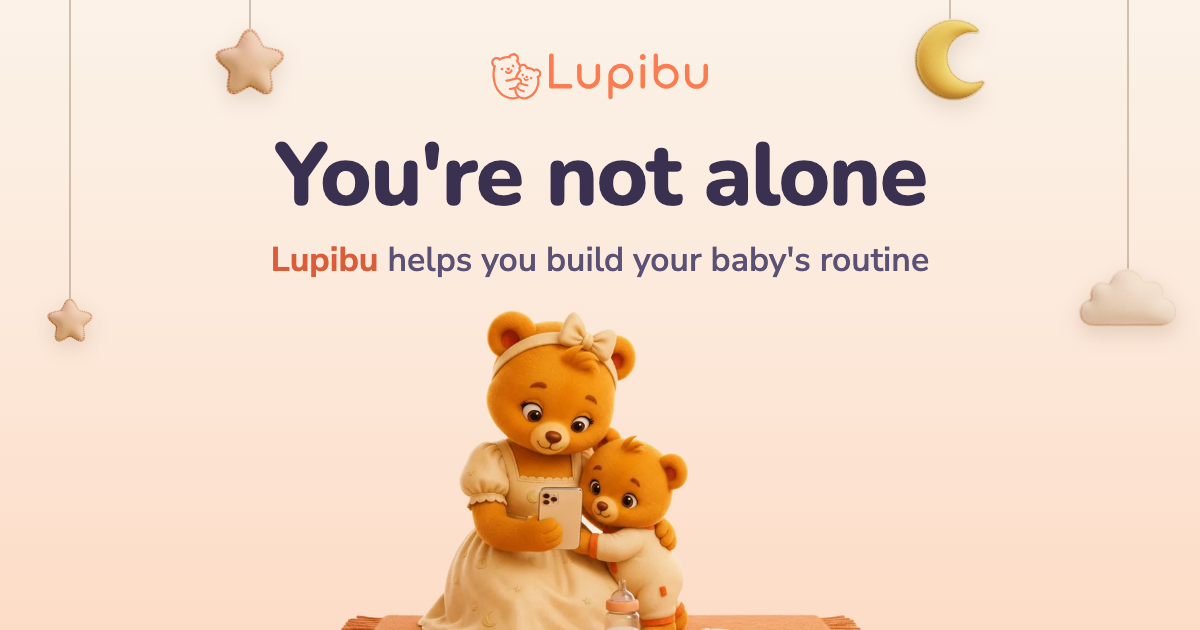
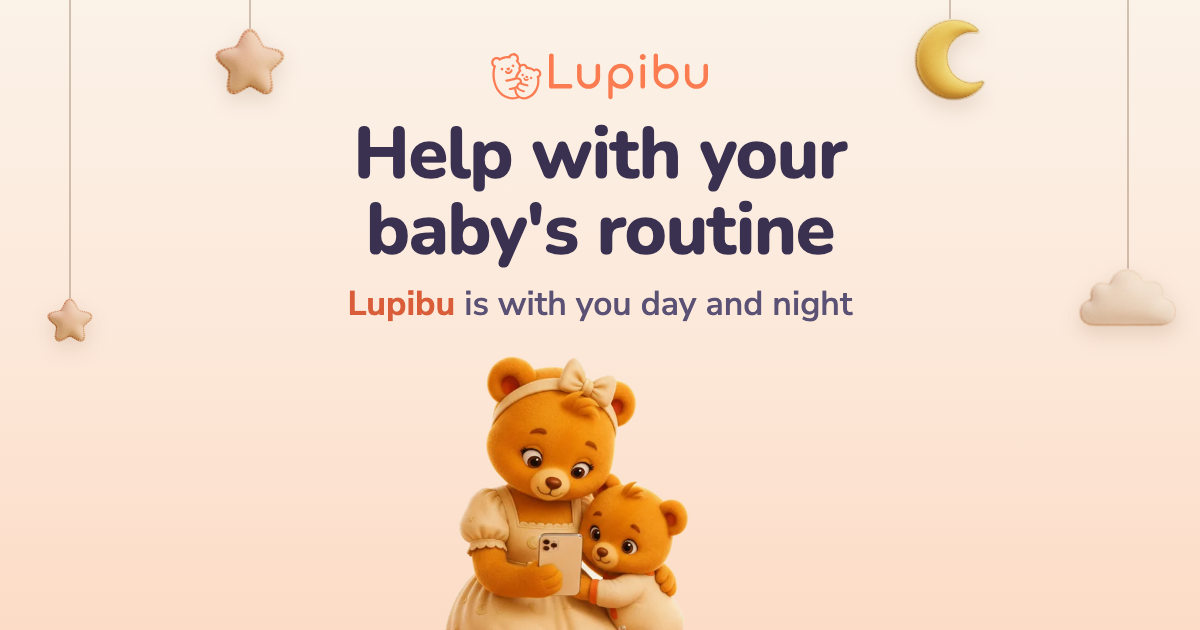
The first screen says what Lupibu is, and store links carry the campaign token
- Headline «Ваш помощник по режиму малыша», under it «Lupibu рядом днём и ночью». «Вы не одиноки» said
  nothing where a link is shown without the picture (a chat, a messenger, a search result): the page's
  headline is also its name there. Share cards redrawn in three languages for the two-line headline.
- On the narrowest two-column window (900–999 px) the three-line headline reached the moon and the star:
  those two toys are hidden there.
- Every App Store button now leads through the developer's provider token (pt) with a campaign name (ct):
  the visit's utm_source, or «site» without one. Downloads from the site and from each ad source become
  countable in App Store Connect.

Changed region(s): [[0.2158, 0.181, 0.7708, 1.0]]

diff --git a/kk/index.html b/kk/index.html
@@ -12,19 +12,19 @@
     <meta name="theme-color" content="#FA7C50">
     <meta name="robots" content="index,follow,max-image-preview:large">
     <meta name="googlebot" content="index,follow,max-image-preview:large">
-    <meta property="og:title" content="Сіз жалғыз емессіз">
-    <meta property="og:description" content="Lupibu сәбидің режимін қалыптастыруға көмектеседі">
+    <meta property="og:title" content="Сәби режимі бойынша көмекшіңіз">
+    <meta property="og:description" content="Lupibu күндіз де, түнде де қасыңызда">
     <meta property="og:type" content="website">
     <meta property="og:url" content="https://lupibu.com/kk/">
     <meta property="og:site_name" content="Lupibu">
-    <meta property="og:image" content="https://lupibu.com/assets/og-card-kk.png?v=20261110c">
+    <meta property="og:image" content="https://lupibu.com/assets/og-card-kk.png?v=20261110d">
     <meta property="og:image:width" content="1200">
     <meta property="og:image:height" content="630">
     <meta property="og:image:alt" content="Lupibu: ұйқы болжамы және сәби режимі">
     <meta name="twitter:card" content="summary_large_image">
-    <meta name="twitter:title" content="Сіз жалғыз емессіз">
-    <meta name="twitter:description" content="Lupibu сәбидің режимін қалыптастыруға көмектеседі">
-    <meta name="twitter:image" content="https://lupibu.com/assets/og-card-kk.png?v=20261110c">
+    <meta name="twitter:title" content="Сәби режимі бойынша көмекшіңіз">
+    <meta name="twitter:description" content="Lupibu күндіз де, түнде де қасыңызда">
+    <meta name="twitter:image" content="https://lupibu.com/assets/og-card-kk.png?v=20261110d">
 
     <link rel="canonical" href="https://lupibu.com/kk/">
     <link rel="alternate" hreflang="ru" href="https://lupibu.com/">
@@ -40,7 +40,7 @@
 
     <link rel="preload" as="image" type="image/webp" href="/assets/home/bears-phone.webp">
 
-    <link rel="stylesheet" href="/home.css?v=20261110u">
+    <link rel="stylesheet" href="/home.css?v=20261110w">
     <link rel="icon" href="/favicon.ico" sizes="32x32">
     <link rel="icon" type="image/svg+xml" href="/assets/favicon.svg">
     <link rel="apple-touch-icon" href="/assets/apple-touch-icon.png">
@@ -144,8 +144,8 @@
             <div class="hang hang-star"><i></i><img src="/assets/home/star.webp" alt="" width="40" height="38"></div>
             <div class="hang hang-star-s"><i></i><img src="/assets/home/star.webp" alt="" width="28" height="27"></div>
             <div class="hero-text">
-                <h1 data-i18n="hero.title">Сіз жалғыз емессіз</h1>
-                <p class="lead" data-i18n="hero.subtitle">Lupibu сәбидің режимін қалыптастыруға көмектеседі</p>
+                <h1 data-i18n="hero.title">Сәби режимі бойынша көмекшіңіз</h1>
+                <p class="lead" data-i18n="hero.subtitle">Lupibu күндіз де, түнде де қасыңызда</p>
                 <div class="cta" id="heroCta">
                     <a href="https://apps.apple.com/app/id6758586869" class="badge" target="_blank" rel="noopener">
                         <img src="/assets/appstore-badge-ru.svg" alt="App Store-дан жүктеу" data-i18n-alt="alt.badge" data-badge width="162" height="54">
@@ -287,10 +287,10 @@
     </div>
 
     <script>window.LUPIBU_DEFAULT_LANG = 'kk';</script>
-    <script src="/i18n.js?v=20261110u"></script>
-    <script src="/assets/analytics.js?v=20261110u" defer></script>
+    <script src="/i18n.js?v=20261110w"></script>
+    <script src="/assets/analytics.js?v=20261110w" defer></script>
     <script src="/main.js?v=20260925a"></script>
-    <script src="/home.js?v=20261110u"></script>
+    <script src="/home.js?v=20261110w"></script>
 </body>
 
 </html>

diff --git a/index.html b/index.html
@@ -12,19 +12,19 @@
     <meta name="theme-color" content="#FA7C50">
     <meta name="robots" content="index,follow,max-image-preview:large">
     <meta name="googlebot" content="index,follow,max-image-preview:large">
-    <meta property="og:title" content="Вы не одиноки">
-    <meta property="og:description" content="Lupibu поможет наладить режим малыша">
+    <meta property="og:title" content="Ваш помощник по режиму малыша">
+    <meta property="og:description" content="Lupibu рядом днём и ночью">
     <meta property="og:type" content="website">
     <meta property="og:url" content="https://lupibu.com/">
     <meta property="og:site_name" content="Lupibu">
-    <meta property="og:image" content="https://lupibu.com/assets/og-card.png?v=20261110c">
+    <meta property="og:image" content="https://lupibu.com/assets/og-card.png?v=20261110d">
     <meta property="og:image:width" content="1200">
     <meta property="og:image:height" content="630">
     <meta property="og:image:alt" content="Lupibu: прогноз сна и режим малыша">
     <meta name="twitter:card" content="summary_large_image">
-    <meta name="twitter:title" content="Вы не одиноки">
-    <meta name="twitter:description" content="Lupibu поможет наладить режим малыша">
-    <meta name="twitter:image" content="https://lupibu.com/assets/og-card.png?v=20261110c">
+    <meta name="twitter:title" content="Ваш помощник по режиму малыша">
+    <meta name="twitter:description" content="Lupibu рядом днём и ночью">
+    <meta name="twitter:image" content="https://lupibu.com/assets/og-card.png?v=20261110d">
 
     <link rel="canonical" href="https://lupibu.com/">
     <link rel="alternate" hreflang="ru" href="https://lupibu.com/">
@@ -40,7 +40,7 @@
 
     <link rel="preload" as="image" type="image/webp" href="assets/home/bears-phone.webp">
 
-    <link rel="stylesheet" href="home.css?v=20261110u">
+    <link rel="stylesheet" href="home.css?v=20261110w">
     <link rel="icon" href="/favicon.ico" sizes="32x32">
     <link rel="icon" type="image/svg+xml" href="/assets/favicon.svg">
     <link rel="apple-touch-icon" href="/assets/apple-touch-icon.png">
@@ -144,8 +144,8 @@
             <div class="hang hang-star"><i></i><img src="assets/home/star.webp" alt="" width="40" height="38"></div>
             <div class="hang hang-star-s"><i></i><img src="assets/home/star.webp" alt="" width="28" height="27"></div>
             <div class="hero-text">
-                <h1 data-i18n="hero.title">Вы не одиноки</h1>
-                <p class="lead" data-i18n="hero.subtitle">Lupibu поможет наладить режим малыша</p>
+                <h1 data-i18n="hero.title">Ваш помощник по&nbsp;режиму малыша</h1>
+                <p class="lead" data-i18n="hero.subtitle">Lupibu рядом днём и&nbsp;ночью</p>
                 <div class="cta" id="heroCta">
                     <a href="https://apps.apple.com/app/id6758586869" class="badge" target="_blank" rel="noopener">
                         <img src="assets/appstore-badge-ru.svg" alt="Загрузите в App Store" data-i18n-alt="alt.badge" data-badge width="162" height="54">
@@ -287,10 +287,10 @@
     </div>
 
     <script>window.LUPIBU_DEFAULT_LANG = 'ru';</script>
-    <script src="i18n.js?v=20261110u"></script>
-    <script src="assets/analytics.js?v=20261110u" defer></script>
+    <script src="i18n.js?v=20261110w"></script>
+    <script src="assets/analytics.js?v=20261110w" defer></script>
     <script src="main.js?v=20260925a"></script>
-    <script src="home.js?v=20261110u"></script>
+    <script src="home.js?v=20261110w"></script>
 </body>
 
 </html>

diff --git a/en/index.html b/en/index.html
@@ -12,19 +12,19 @@
     <meta name="theme-color" content="#FA7C50">
     <meta name="robots" content="index,follow,max-image-preview:large">
     <meta name="googlebot" content="index,follow,max-image-preview:large">
-    <meta property="og:title" content="You're not alone">
-    <meta property="og:description" content="Lupibu helps you build your baby's routine">
+    <meta property="og:title" content="Help with your baby's routine">
+    <meta property="og:description" content="Lupibu is with you day and night">
     <meta property="og:type" content="website">
     <meta property="og:url" content="https://lupibu.com/en/">
     <meta property="og:site_name" content="Lupibu">
-    <meta property="og:image" content="https://lupibu.com/assets/og-card-en.png?v=20261110c">
+    <meta property="og:image" content="https://lupibu.com/assets/og-card-en.png?v=20261110d">
     <meta property="og:image:width" content="1200">
     <meta property="og:image:height" content="630">
     <meta property="og:image:alt" content="Lupibu: baby sleep forecast and routine">
     <meta name="twitter:card" content="summary_large_image">
-    <meta name="twitter:title" content="You're not alone">
-    <meta name="twitter:description" content="Lupibu helps you build your baby's routine">
-    <meta name="twitter:image" content="https://lupibu.com/assets/og-card-en.png?v=20261110c">
+    <meta name="twitter:title" content="Help with your baby's routine">
+    <meta name="twitter:description" content="Lupibu is with you day and night">
+    <meta name="twitter:image" content="https://lupibu.com/assets/og-card-en.png?v=20261110d">
 
     <link rel="canonical" href="https://lupibu.com/en/">
     <link rel="alternate" hreflang="ru" href="https://lupibu.com/">
@@ -40,7 +40,7 @@
 
     <link rel="preload" as="image" type="image/webp" href="/assets/home/bears-phone.webp">
 
-    <link rel="stylesheet" href="/home.css?v=20261110u">
+    <link rel="stylesheet" href="/home.css?v=20261110w">
     <link rel="icon" href="/favicon.ico" sizes="32x32">
     <link rel="icon" type="image/svg+xml" href="/assets/favicon.svg">
     <link rel="apple-touch-icon" href="/assets/apple-touch-icon.png">
@@ -144,8 +144,8 @@
             <div class="hang hang-star"><i></i><img src="/assets/home/star.webp" alt="" width="40" height="38"></div>
             <div class="hang hang-star-s"><i></i><img src="/assets/home/star.webp" alt="" width="28" height="27"></div>
             <div class="hero-text">
-                <h1 data-i18n="hero.title">You're not alone</h1>
-                <p class="lead" data-i18n="hero.subtitle">Lupibu helps you build your baby's routine</p>
+                <h1 data-i18n="hero.title">Help with your baby's routine</h1>
+                <p class="lead" data-i18n="hero.subtitle">Lupibu is with you day and night</p>
                 <div class="cta" id="heroCta">
                     <a href="https://apps.apple.com/app/id6758586869" class="badge" target="_blank" rel="noopener">
                         <img src="/assets/appstore-badge.svg" alt="Download on the App Store" data-i18n-alt="alt.badge" data-badge width="162" height="54">
@@ -286,10 +286,10 @@
     </div>
 
     <script>window.LUPIBU_DEFAULT_LANG = 'en';</script>
-    <script src="/i18n.js?v=20261110u"></script>
-    <script src="/assets/analytics.js?v=20261110u" defer></script>
+    <script src="/i18n.js?v=20261110w"></script>
+    <script src="/assets/analytics.js?v=20261110w" defer></script>
     <script src="/main.js?v=20260925a"></script>
-    <script src="/home.js?v=20261110u"></script>
+    <script src="/home.js?v=20261110w"></script>
 </body>
 
 </html>

diff --git a/tools/index.html b/tools/index.html
@@ -13,13 +13,13 @@
     <meta property="og:type" content="website">
     <meta property="og:url" content="https://lupibu.com/tools/">
     <meta property="og:site_name" content="Lupibu">
-    <meta property="og:image" content="https://lupibu.com/assets/og-card.png?v=20261110c">
+    <meta property="og:image" content="https://lupibu.com/assets/og-card.png?v=20261110d">
     <meta property="og:image:width" content="1200">
     <meta property="og:image:height" content="630">
     <meta name="twitter:card" content="summary_large_image">
     <meta name="twitter:title" content="Когда укладывать малыша: расчёт сна по возрасту | Lupibu">
     <meta name="twitter:description" content="Укажите возраст малыша и время пробуждения: страница покажет время следующего сна. Расчёт по возрасту, в ознакомительных целях.">
-    <meta name="twitter:image" content="https://lupibu.com/assets/og-card.png?v=20261110c">
+    <meta name="twitter:image" content="https://lupibu.com/assets/og-card.png?v=20261110d">
 
     <link rel="canonical" href="https://lupibu.com/tools/">
     <link rel="alternate" hreflang="ru" href="https://lupibu.com/tools/">
@@ -33,7 +33,7 @@
     <link rel="preconnect" href="https://fonts.gstatic.com" crossorigin>
     <link href="https://fonts.googleapis.com/css2?family=Nunito:wght@700;800&family=Nunito+Sans:opsz,wght@6..12,400;6..12,500;6..12,600;6..12,700&display=swap" rel="stylesheet">
 
-    <link rel="stylesheet" href="/home.css?v=20261110u">
+    <link rel="stylesheet" href="/home.css?v=20261110w">
     <link rel="icon" href="/favicon.ico" sizes="32x32">
     <link rel="icon" type="image/svg+xml" href="/assets/favicon.svg">
     <link rel="apple-touch-icon" href="/assets/apple-touch-icon.png">
@@ -147,10 +147,10 @@
     </footer>
 
     <script>window.LUPIBU_DEFAULT_LANG = 'ru';</script>
-    <script src="/i18n.js?v=20261110u"></script>
-    <script src="/assets/analytics.js?v=20261110u" defer></script>
+    <script src="/i18n.js?v=20261110w"></script>
+    <script src="/assets/analytics.js?v=20261110w" defer></script>
     <script src="/main.js?v=20260925a"></script>
-    <script src="/home.js?v=20261110u"></script>
+    <script src="/home.js?v=20261110w"></script>
 </body>
 
 </html>

diff --git a/kk/tools/index.html b/kk/tools/index.html
@@ -13,13 +13,13 @@
     <meta property="og:type" content="website">
     <meta property="og:url" content="https://lupibu.com/kk/tools/">
     <meta property="og:site_name" content="Lupibu">
-    <meta property="og:image" content="https://lupibu.com/assets/og-card-kk.png?v=20261110c">
+    <meta property="og:image" content="https://lupibu.com/assets/og-card-kk.png?v=20261110d">
     <meta property="og:image:width" content="1200">
     <meta property="og:image:height" content="630">
     <meta name="twitter:card" content="summary_large_image">
     <meta name="twitter:title" content="Сәбиді қашан ұйықтату керек: жасқа сай ұйқы есебі | Lupibu">
     <meta name="twitter:description" content="Сәбидің жасы мен оянған уақытын көрсетіңіз: бет келесі ұйқы уақытын көрсетеді. Жасқа сай есеп, танысу мақсатында.">
-    <meta name="twitter:image" content="https://lupibu.com/assets/og-card-kk.png?v=20261110c">
+    <meta name="twitter:image" content="https://lupibu.com/assets/og-card-kk.png?v=20261110d">
 
     <link rel="canonical" href="https://lupibu.com/kk/tools/">
     <link rel="alternate" hreflang="ru" href="https://lupibu.com/tools/">
@@ -33,7 +33,7 @@
     <link rel="preconnect" href="https://fonts.gstatic.com" crossorigin>
     <link href="https://fonts.googleapis.com/css2?family=Nunito:wght@700;800&family=Nunito+Sans:opsz,wght@6..12,400;6..12,500;6..12,600;6..12,700&display=swap" rel="stylesheet">
 
-    <link rel="stylesheet" href="/home.css?v=20261110u">
+    <link rel="stylesheet" href="/home.css?v=20261110w">
     <link rel="icon" href="/favicon.ico" sizes="32x32">
     <link rel="icon" type="image/svg+xml" href="/assets/favicon.svg">
     <link rel="apple-touch-icon" href="/assets/apple-touch-icon.png">
@@ -147,10 +147,10 @@
     </footer>
 
     <script>window.LUPIBU_DEFAULT_LANG = 'kk';</script>
-    <script src="/i18n.js?v=20261110u"></script>
-    <script src="/assets/analytics.js?v=20261110u" defer></script>
+    <script src="/i18n.js?v=20261110w"></script>
+    <script src="/assets/analytics.js?v=20261110w" defer></script>
     <script src="/main.js?v=20260925a"></script>
-    <script src="/home.js?v=20261110u"></script>
+    <script src="/home.js?v=20261110w"></script>
 </body>
 
 </html>

diff --git a/en/tools/index.html b/en/tools/index.html
@@ -13,13 +13,13 @@
     <meta property="og:type" content="website">
     <meta property="og:url" content="https://lupibu.com/en/tools/">
     <meta property="og:site_name" content="Lupibu">
-    <meta property="og:image" content="https://lupibu.com/assets/og-card-en.png?v=20261110c">
+    <meta property="og:image" content="https://lupibu.com/assets/og-card-en.png?v=20261110d">
     <meta property="og:image:width" content="1200">
     <meta property="og:image:height" content="630">
     <meta name="twitter:card" content="summary_large_image">
     <meta name="twitter:title" content="When to put your baby down: nap time by age | Lupibu">
     <meta name="twitter:description" content="Enter your baby's age and wake-up time to see when the next sleep is due. An estimate by age, for information only.">
-    <meta name="twitter:image" content="https://lupibu.com/assets/og-card-en.png?v=20261110c">
+    <meta name="twitter:image" content="https://lupibu.com/assets/og-card-en.png?v=20261110d">
 
     <link rel="canonical" href="https://lupibu.com/en/tools/">
     <link rel="alternate" hreflang="ru" href="https://lupibu.com/tools/">
@@ -33,7 +33,7 @@
     <link rel="preconnect" href="https://fonts.gstatic.com" crossorigin>
     <link href="https://fonts.googleapis.com/css2?family=Nunito:wght@700;800&family=Nunito+Sans:opsz,wght@6..12,400;6..12,500;6..12,600;6..12,700&display=swap" rel="stylesheet">
 
-    <link rel="stylesheet" href="/home.css?v=20261110u">
+    <link rel="stylesheet" href="/home.css?v=20261110w">
     <link rel="icon" href="/favicon.ico" sizes="32x32">
     <link rel="icon" type="image/svg+xml" href="/assets/favicon.svg">
     <link rel="apple-touch-icon" href="/assets/apple-touch-icon.png">
@@ -147,10 +147,10 @@
     </footer>
 
     <script>window.LUPIBU_DEFAULT_LANG = 'en';</script>
-    <script src="/i18n.js?v=20261110u"></script>
-    <script src="/assets/analytics.js?v=20261110u" defer></script>
+    <script src="/i18n.js?v=20261110w"></script>
+    <script src="/assets/analytics.js?v=20261110w" defer></script>
     <script src="/main.js?v=20260925a"></script>
-    <script src="/home.js?v=20261110u"></script>
+    <script src="/home.js?v=20261110w"></script>
 </body>
 
 </html>

diff --git a/i18n.js b/i18n.js
@@ -13,8 +13,8 @@ const translations = {
         'hero.b1': "When's the next nap?",
         'hero.b2': 'When did I last feed?',
         'hero.b3': "Why won't my baby sleep?",
-        'hero.title': "You're not alone",
-        'hero.subtitle': "Lupibu helps you build your baby's routine",
+        'hero.title': "Help with your baby's routine",
+        'hero.subtitle': "Lupibu is with you day and night",
 
         'cmp.title': 'Your day, back in your hands',
         'cmp.without': 'Without Lupibu',
@@ -120,8 +120,8 @@ const translations = {
         'hero.b1': 'Когда укладывать?',
         'hero.b2': 'Когда кормила?',
         'hero.b3': 'Почему не спит?',
-        'hero.title': 'Вы не одиноки',
-        'hero.subtitle': 'Lupibu поможет наладить режим малыша',
+        'hero.title': 'Ваш помощник по\u00a0режиму малыша',
+        'hero.subtitle': 'Lupibu рядом днём и\u00a0ночью',
 
         'cmp.title': 'Ваш день в Ваших руках',
         'cmp.without': 'Без Lupibu',
@@ -223,8 +223,8 @@ const translations = {
         'hero.b1': 'Қашан ұйықтату керек?',
         'hero.b2': 'Қашан тамақтандырдым?',
         'hero.b3': 'Неге ұйықтамайды?',
-        'hero.title': 'Сіз жалғыз емессіз',
-        'hero.subtitle': 'Lupibu сәбидің режимін қалыптастыруға көмектеседі',
+        'hero.title': 'Сәби режимі бойынша көмекшіңіз',
+        'hero.subtitle': 'Lupibu күндіз де, түнде де қасыңызда',
 
         'cmp.title': 'Күніңіз өз қолыңызда',
         'cmp.without': 'Lupibu-сыз',

diff --git a/assets/analytics.js b/assets/analytics.js
@@ -17,10 +17,10 @@
  * Apple counts a download for a campaign only when the link carries the developer's provider token (pt) and a
  * campaign name (ct); the numbers then show in App Store Connect → Analytics → Acquisition → Campaigns
  * (a campaign appears there after 5 downloads).
- * PT is the number from «Generate Campaign Link» on that page. While it is empty the store links stay as they are.
+ * PT is the number from «Generate Campaign Link» on that page (given by the owner on 10.11.2026). With it empty the store links stay as they are.
  * ct is the utm_source of the visit (an ad puts it into its address), or «site» for a visit without one.
  */
-var LUPIBU_PT = '';
+var LUPIBU_PT = '128285381';
 (function () {
     if (!LUPIBU_PT) return;
     var ct = 'site';

diff --git a/home.css b/home.css
@@ -924,6 +924,11 @@ html:has(.sheet[open]) { overflow: hidden; }
     .cmp td { padding-right: max(4px, calc(10px + (100vw - 375px) / 2)); }
 }
 
+@media (min-width: 900px) and (max-width: 999px) {
+    /* the narrowest two-column window: the headline takes three lines and rises to where the moon and the star hang */
+    .hang-moon, .hang-star { display: none; }
+}
+
 @media (min-width: 1200px) {
     /* On a wide screen the middle of the last block is empty between the steps and the phone: the sleeping bears
        move up into it, a little to the left of centre so they stay clear of the phone. Narrower, the QR code is in the way. */
